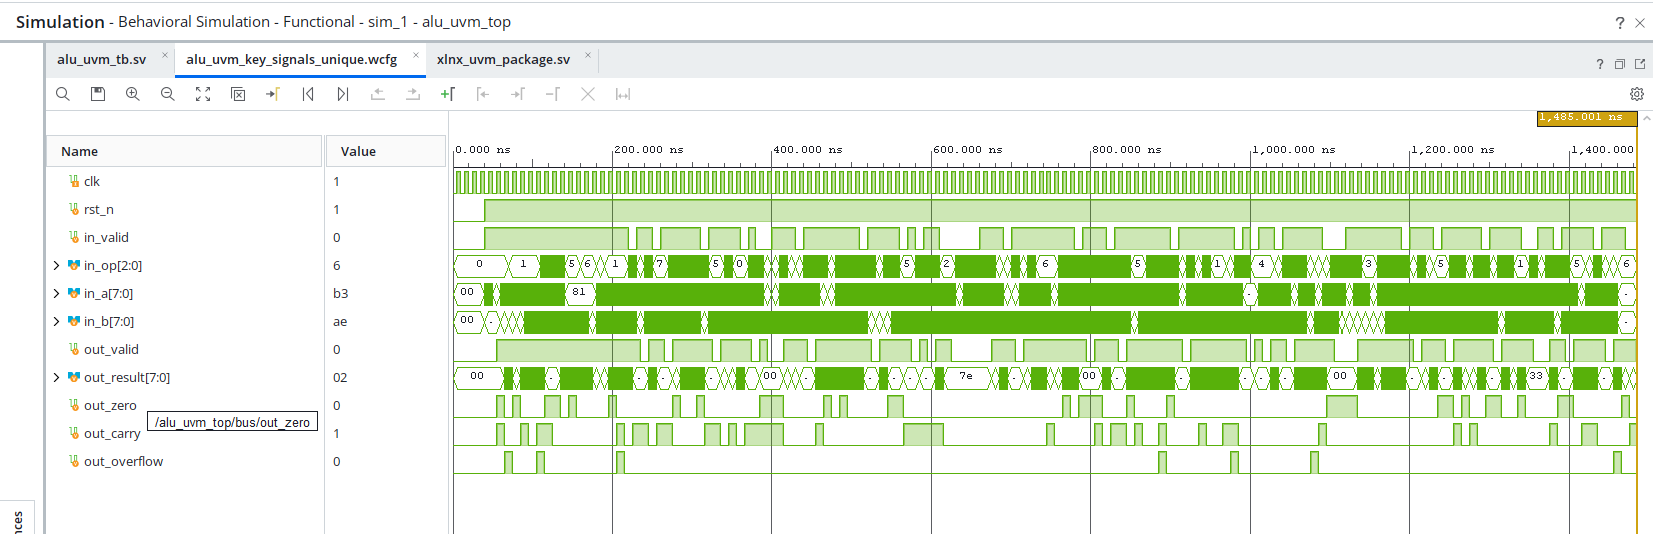
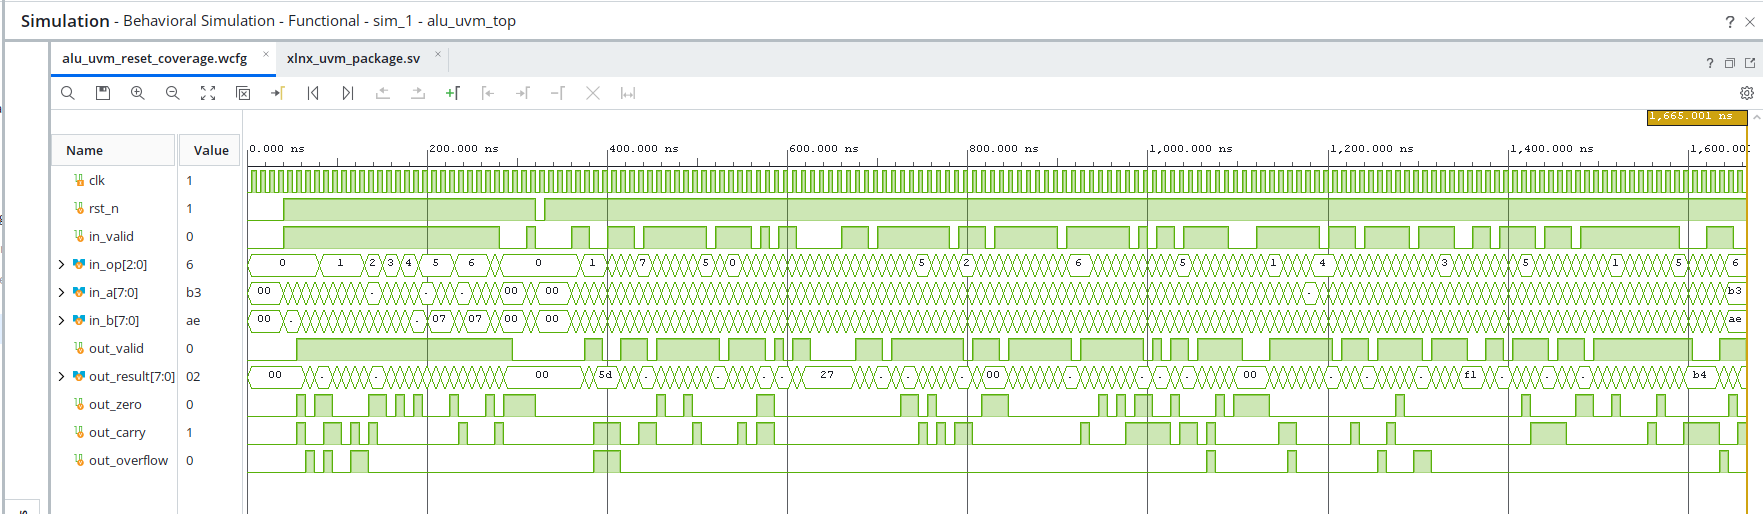
Add UVM reset and cross coverage checks

diff --git a/README_UVM_SETUP.md b/README_UVM_SETUP.md
@@ -23,3 +23,7 @@ The integrated Vivado flow uses its precompiled UVM 1.2 library. If Device Guard
 The test includes directed cases for all eight opcodes, randomized requests with occasional invalid cycles, a latency assertion, a reference-model scoreboard for result and flags, and opcode/flag coverage. Simulation outputs go under `build/uvm/`.
 
 After running, inspect the log for the UVM PASS message, `UVM_ERROR : 0`, and `UVM_FATAL : 0`; share any compile/runtime output if it fails. The Tcl script creates generated project files under `build/uvm_vivado_project/` and leaves RTL and testbench files unchanged.
+
+### Reset, idle, and opcode/flag cross-coverage extension
+
+The UVM test checks reset recovery with a request in flight, verifies outputs clear during reset, counts idle cycles, and measures opcode × zero/carry/overflow cross coverage. On Vivado 2026.1 with UVM 1.2, it checked 121 responses, observed 40 idle cycles and 2 reset pulses, flushed 1 in-flight request, and reached 100% cross coverage. The run completed with 0 warnings, errors, or fatals.
